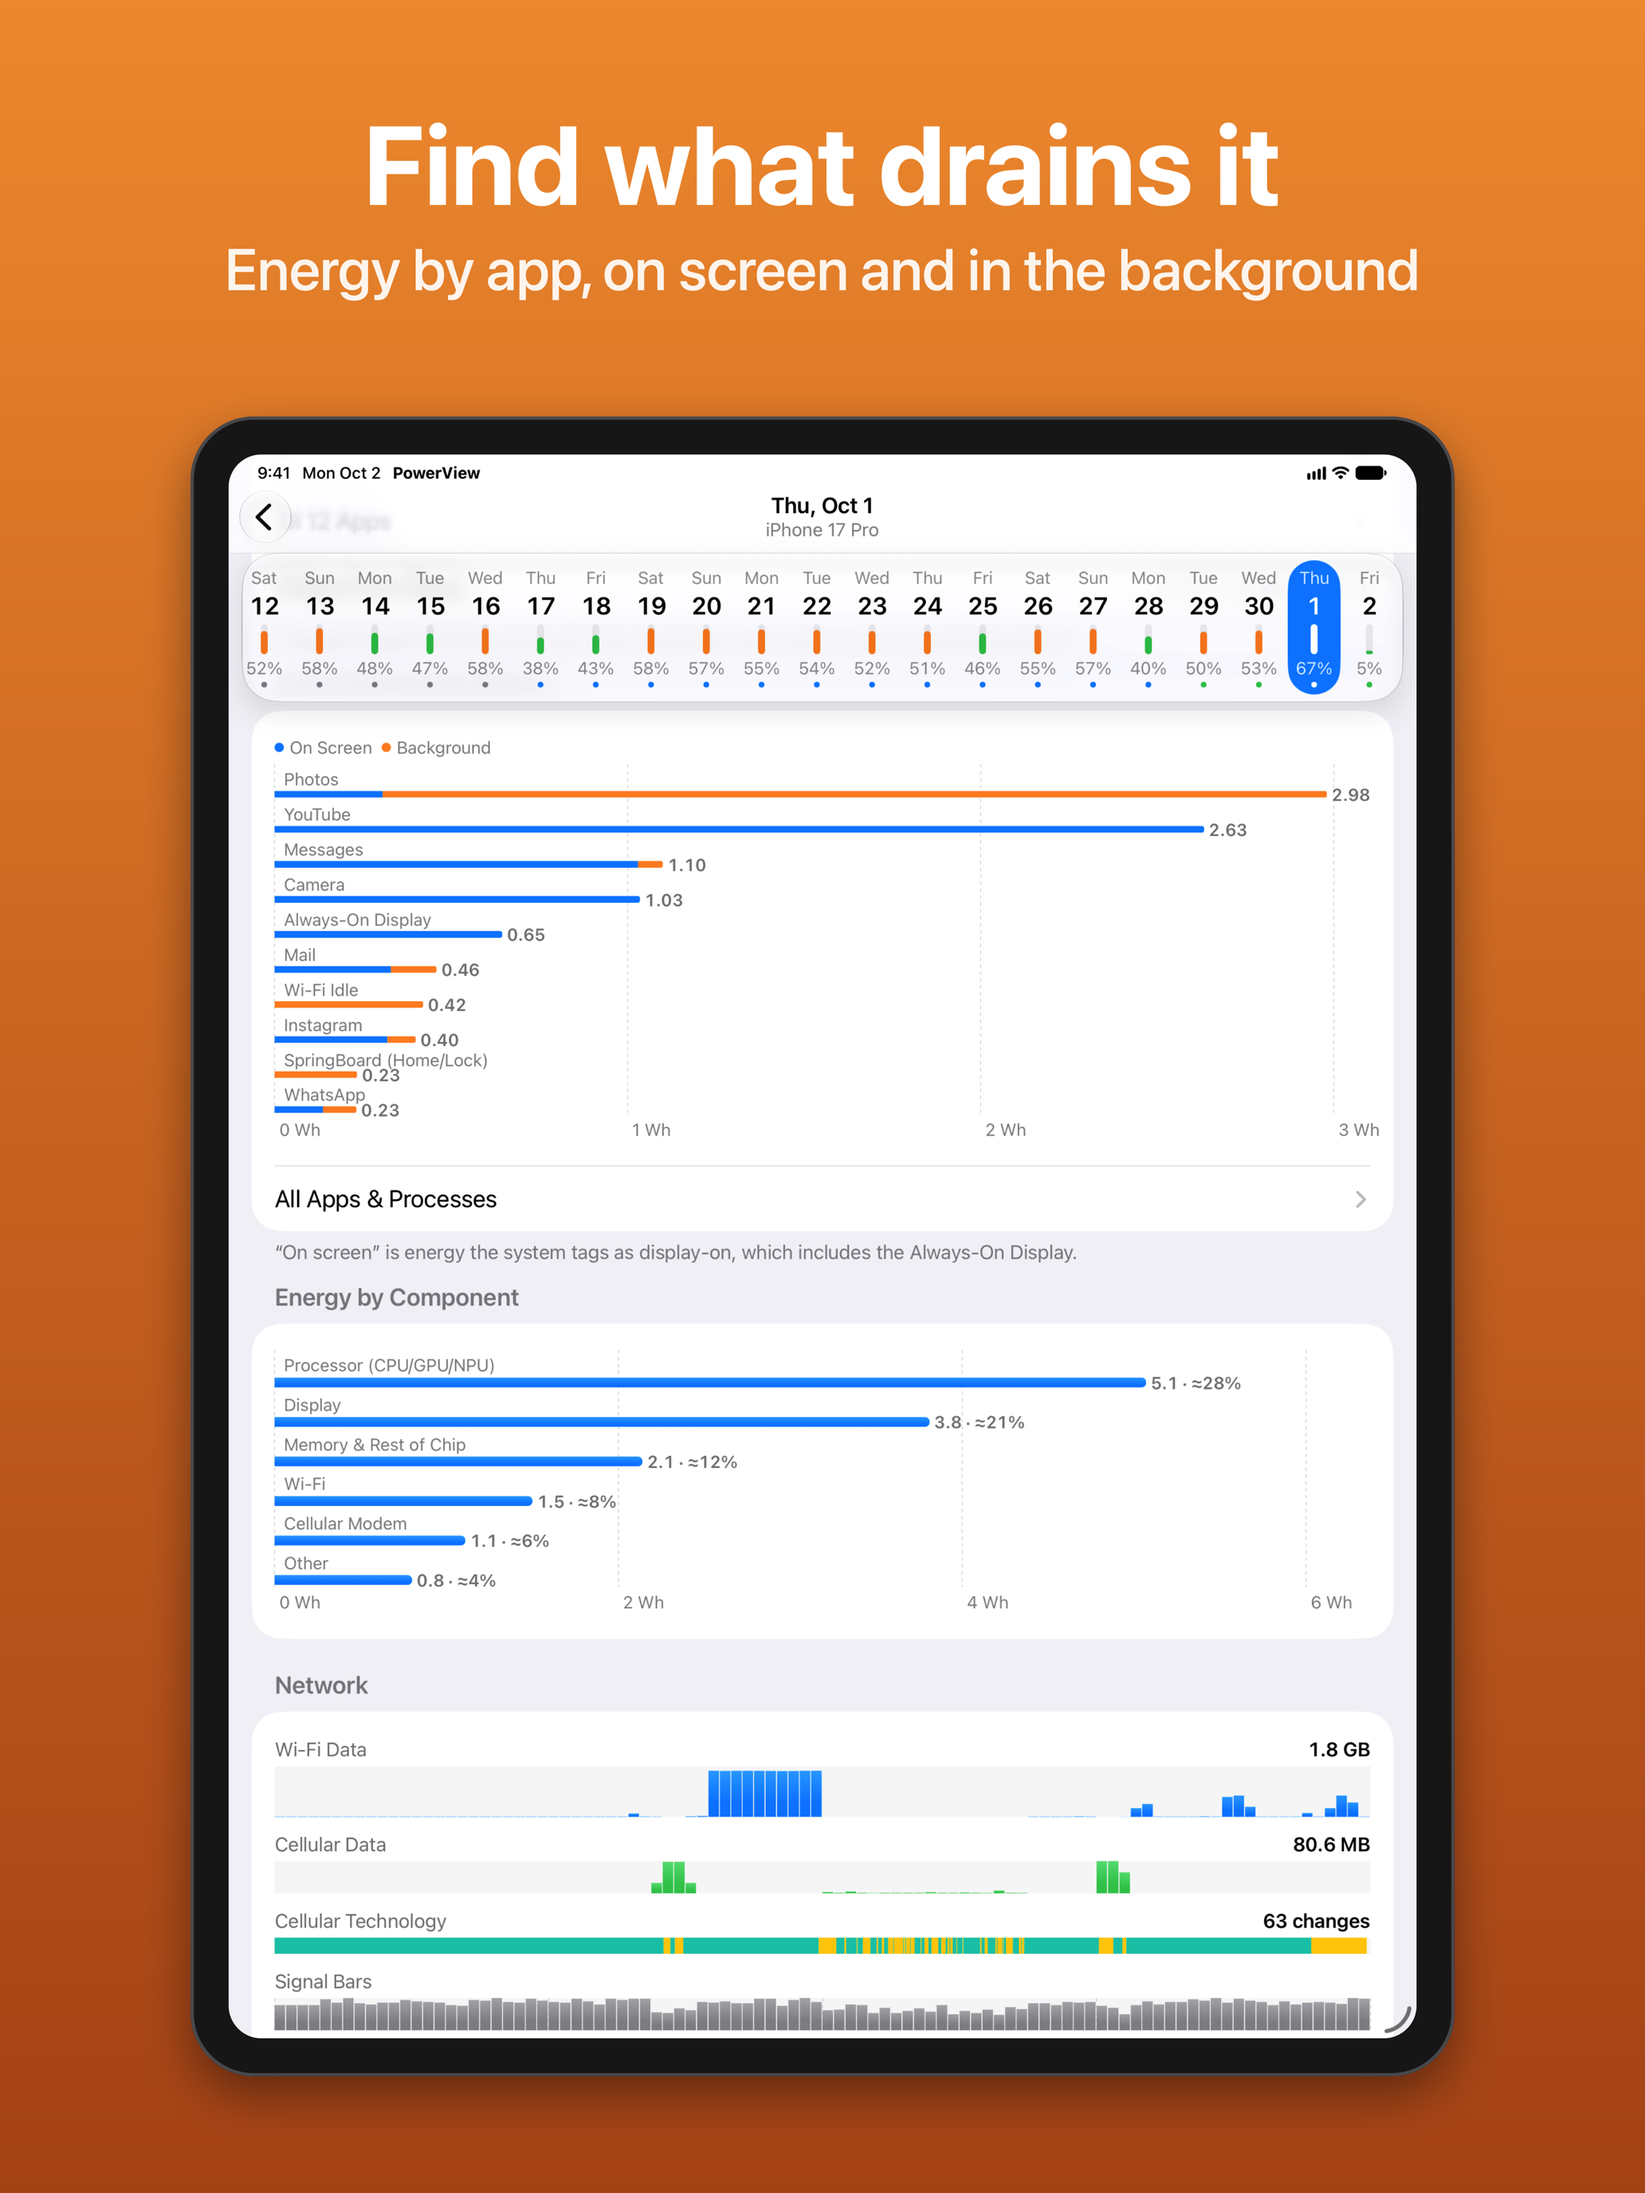
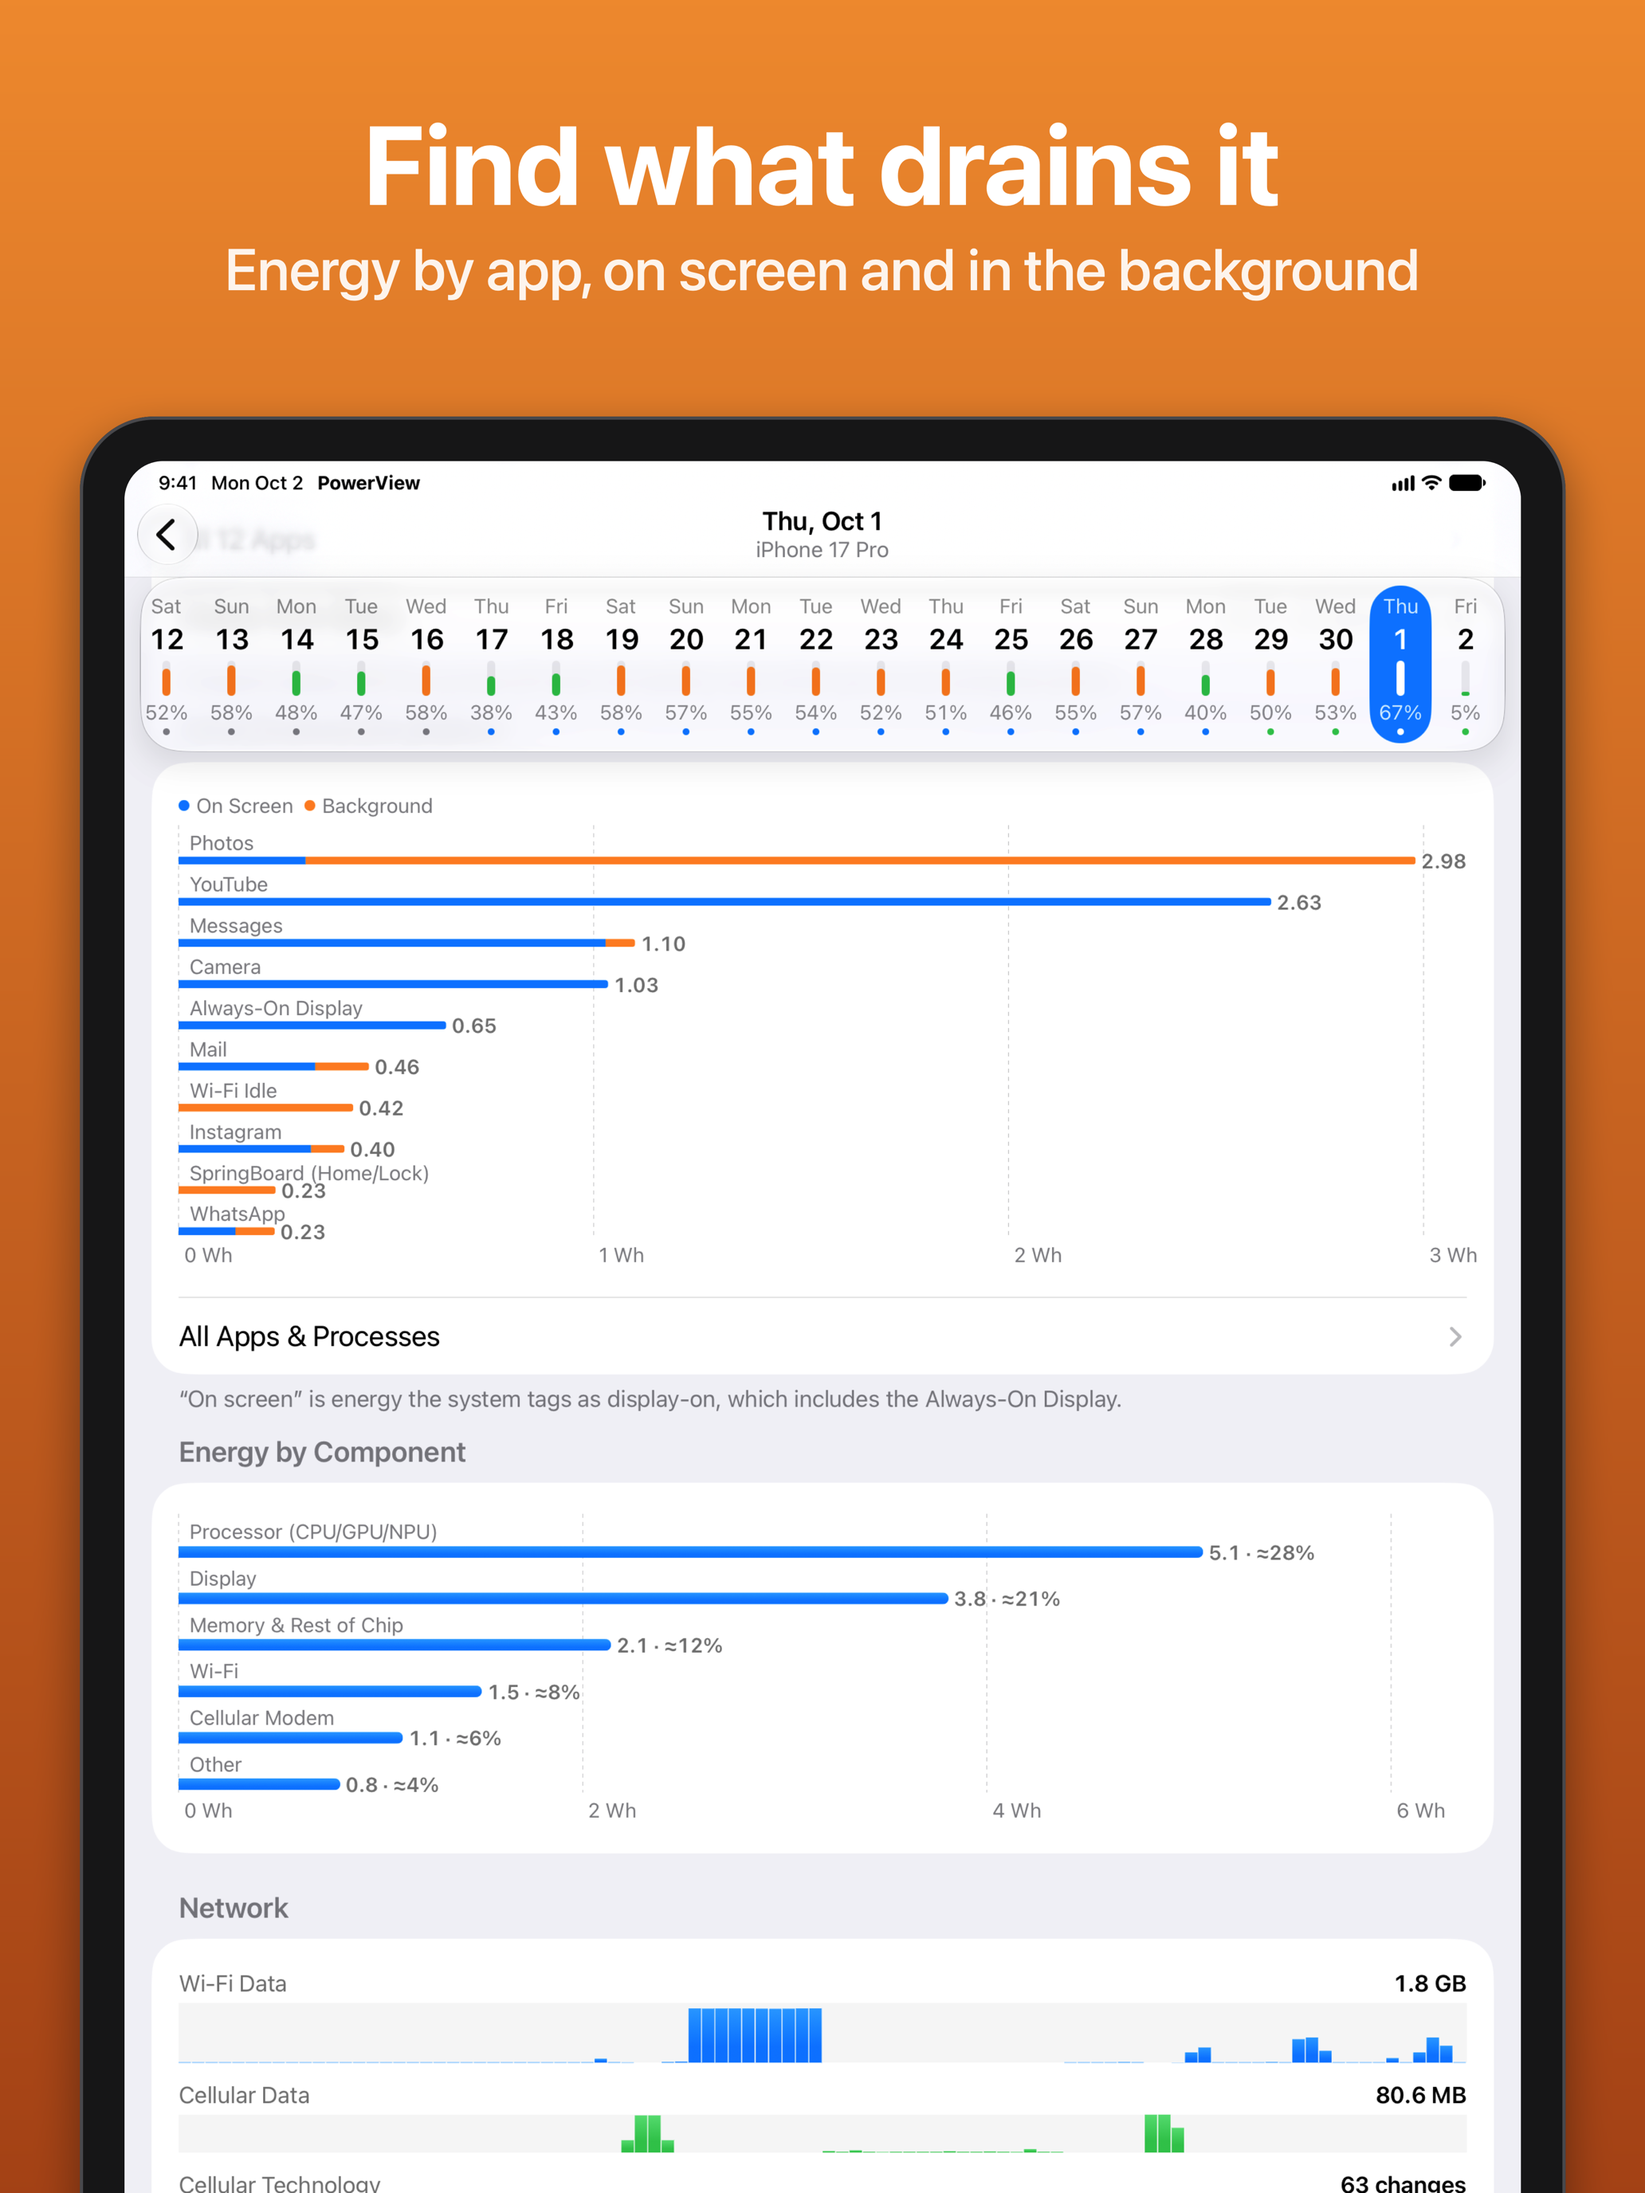
Enlarge the iPad frame in App Store screenshots and let it run off the bottom

diff --git a/Assets/App Store/compose.swift b/Assets/App Store/compose.swift
@@ -243,20 +243,30 @@ func compose(_ shot: Screenshot, language: String, device: Device) -> Bool {
     var headerTop = canvasSize.height - 96 * s
     let textBottom = headerTop - header.size.height - captionGap - caption.size.height
 
-    // The device fills what is left below the text.
+    // The iPhone fills what is left below the text. The iPad is as wide as the margins allow
+    // and runs off the bottom of the canvas.
     let deviceTopMargin = 64 * s
     let deviceBottomMargin = 88 * s
-    let availableHeight = textBottom - deviceTopMargin - deviceBottomMargin
+    let maxDeviceWidth = canvasSize.width - 120 * s
     let aspect = deviceAspect(device)
-    var deviceSize = NSSize(width: availableHeight * aspect, height: availableHeight)
-    if deviceSize.width > canvasSize.width - 120 * s {
-        deviceSize.width = canvasSize.width - 120 * s
-        deviceSize.height = deviceSize.width / aspect
+    var deviceSize: NSSize
+    var deviceTop: CGFloat
+    switch device {
+    case .iPhone:
+        let availableHeight = textBottom - deviceTopMargin - deviceBottomMargin
+        deviceSize = NSSize(width: availableHeight * aspect, height: availableHeight)
+        if deviceSize.width > maxDeviceWidth {
+            deviceSize.width = maxDeviceWidth
+            deviceSize.height = deviceSize.width / aspect
+        }
+        deviceTop = deviceBottomMargin + deviceSize.height
+    case .iPad:
+        deviceSize = NSSize(width: maxDeviceWidth, height: maxDeviceWidth / aspect)
+        deviceTop = textBottom - deviceTopMargin
     }
 
     // The text is centered, by the header's cap height and the caption's baseline,
     // between the top of the canvas and the top of the device.
-    let deviceTop = deviceBottomMargin + deviceSize.height
     let capInset = header.font.ascender - header.font.capHeight
     let visualHeight = header.size.height + captionGap + caption.font.ascender - capInset
     let visualTop = (canvasSize.height + deviceTop) / 2 + visualHeight / 2
@@ -266,7 +276,7 @@ func compose(_ shot: Screenshot, language: String, device: Device) -> Bool {
 
     let deviceRect = NSRect(
         x: ((canvasSize.width - deviceSize.width) / 2).rounded(),
-        y: deviceBottomMargin,
+        y: deviceTop - deviceSize.height,
         width: deviceSize.width,
         height: deviceSize.height
     )
